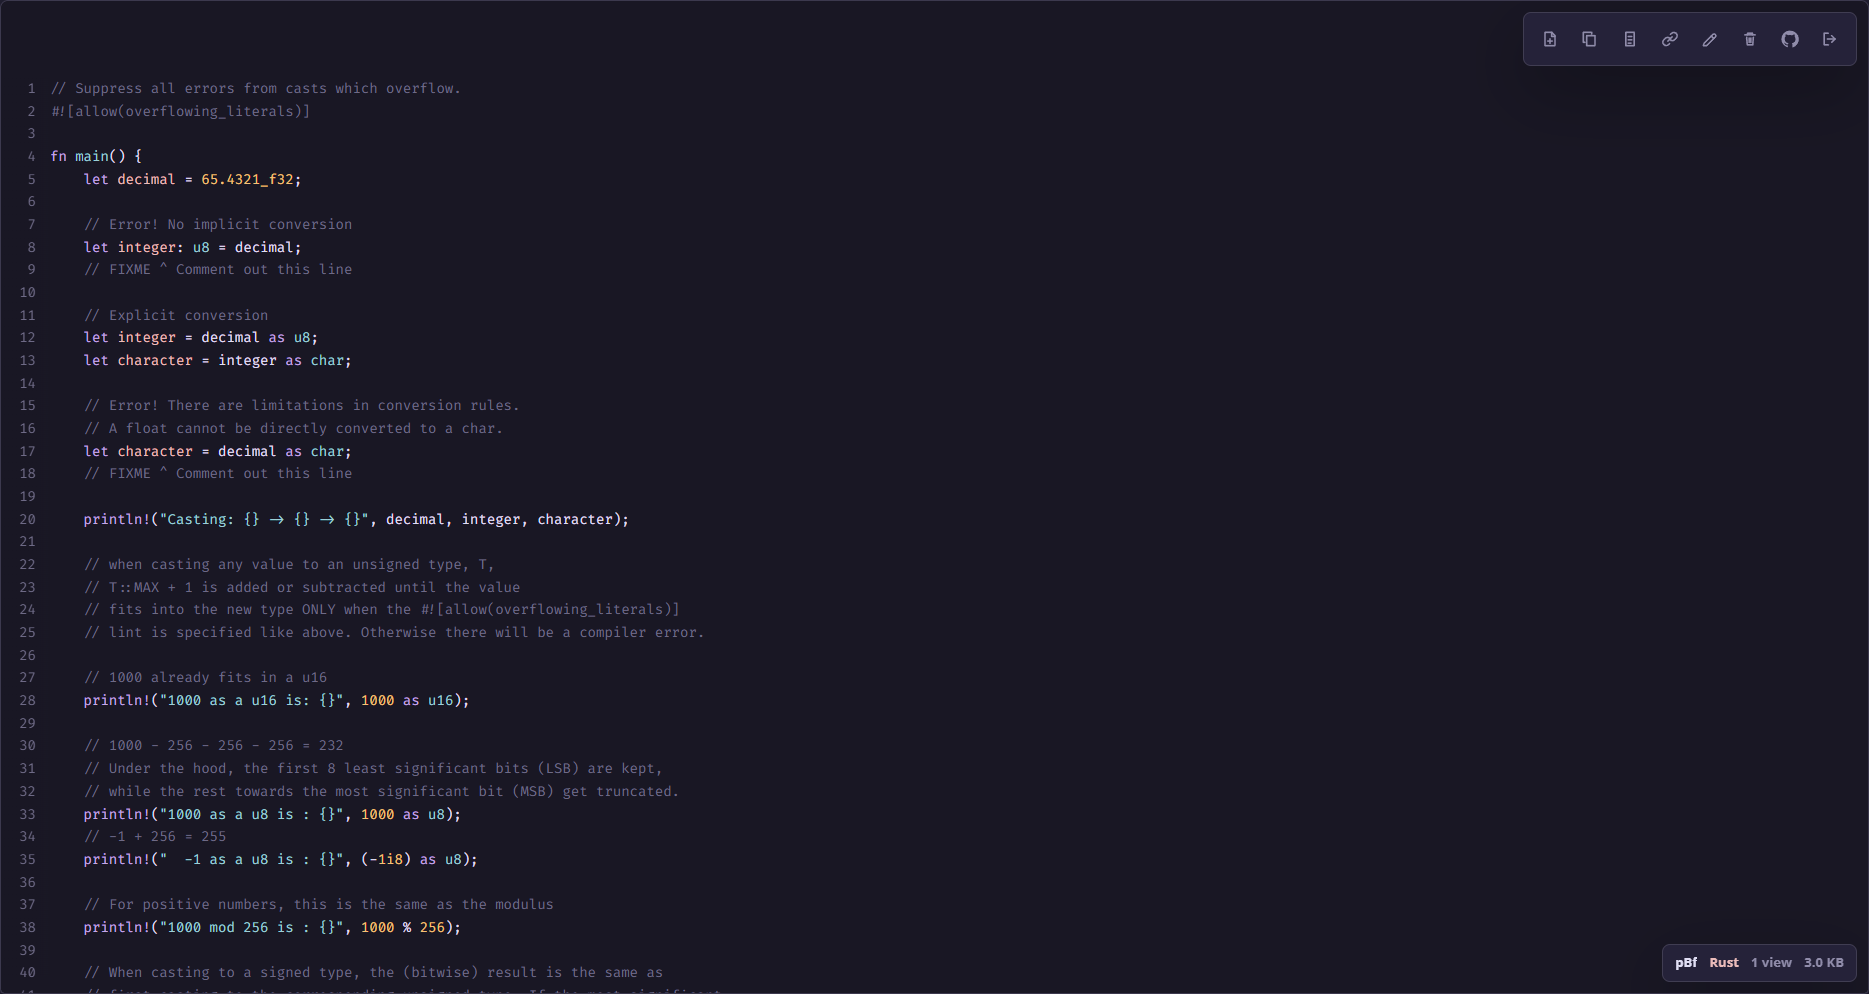
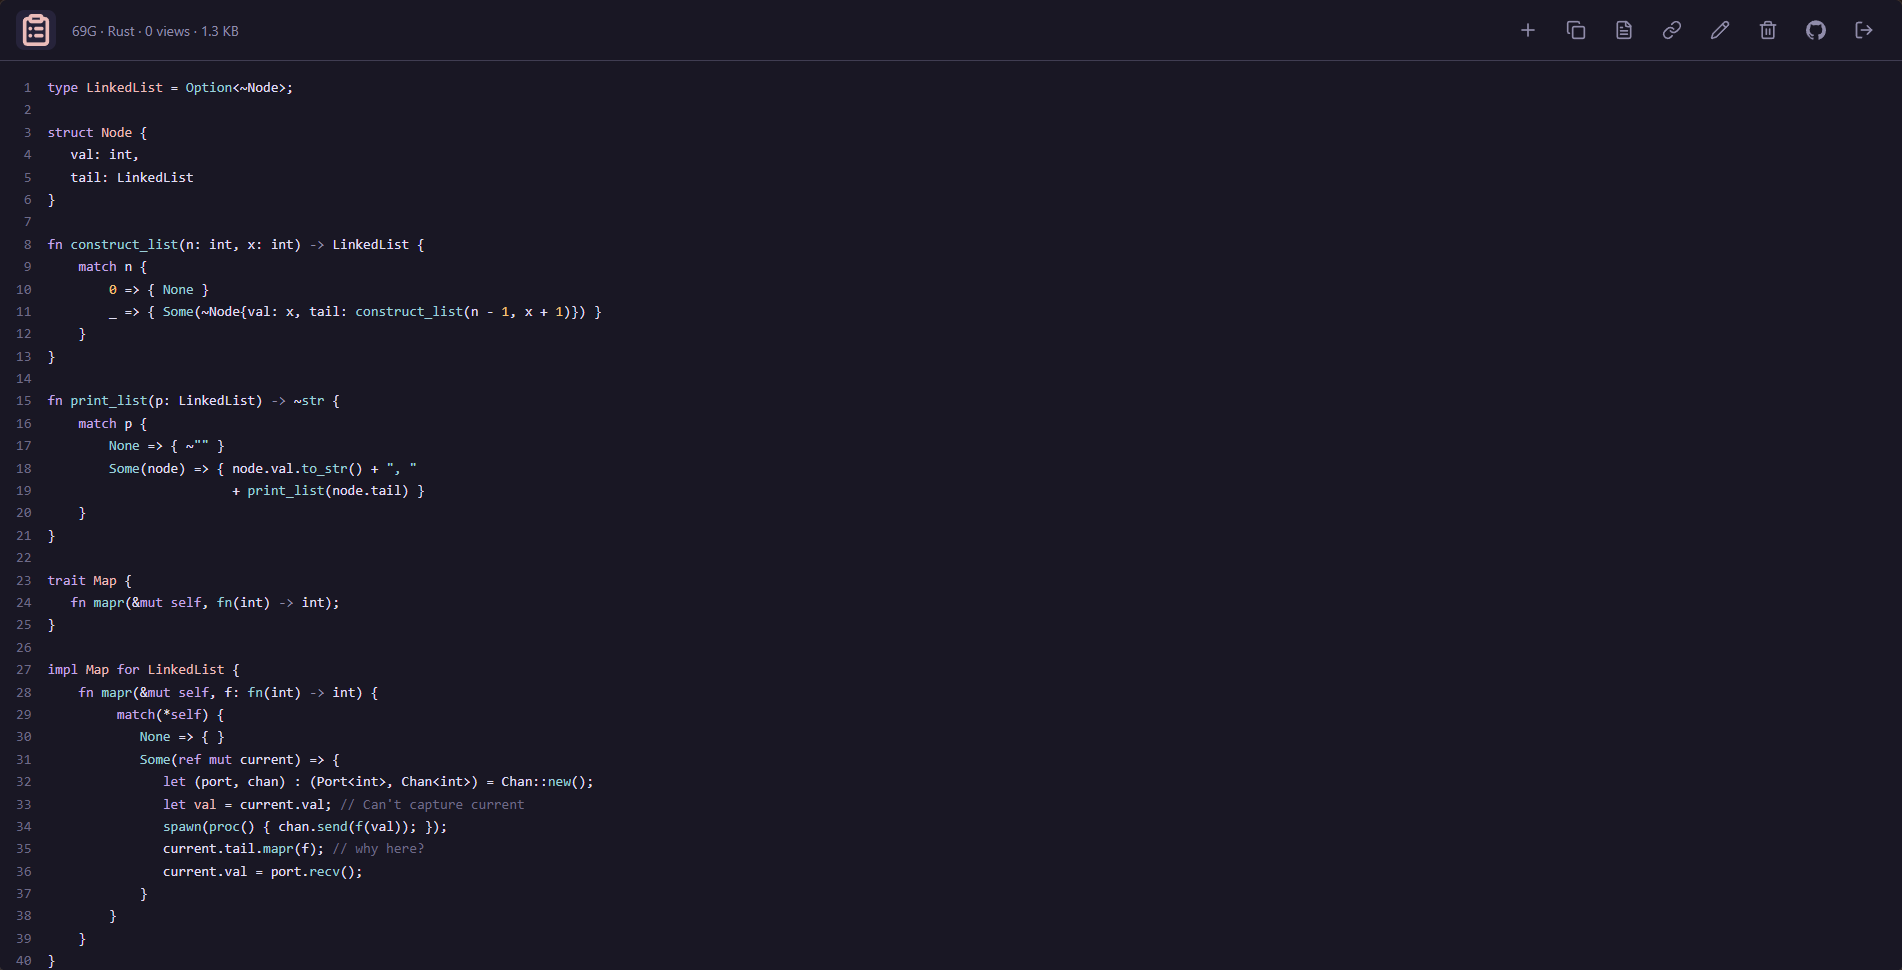
docs(readme): rewrite README and update screenshots

diff --git a/README.md b/README.md
@@ -1,32 +1,14 @@
-# <p style="text-align: center;">Seki</p>
+# Seki
 
-Private paste service on Node.js and Express
+A small private paste service. Creating, renaming and deleting pastes needs a token, reading them doesn't. Code gets syntax highlighting, Markdown is rendered, and every paste has a raw version. No database: an index in `index.json` and one text file per paste.
 
 ![Auth](./docs/screenshots/auth.png)
 ![Code](./docs/screenshots/code.png)
 ![Markdown](./docs/screenshots/markdown.png)
 
-## Purpose
+## Run
 
-Seki stores text pastes as plain text files and serves them through short links. It is built for private use by a small group: creating, deleting, and renaming pastes requires an API token, while viewing a paste or its raw version is public to anyone with the link
-
-## Features
-
-- Private writes and public reads: creating, deleting, and renaming require a token, viewing works by link
-- No database: metadata is stored in `data/index.json`, paste content in `data/pastes/`
-- Raw text view at `/:id/raw`
-- Automatic language detection and syntax highlighting with `highlight.js`
-- Markdown pastes render as HTML in the viewer and stay plain text in raw mode
-- Large pastes skip expensive highlighting and stay readable as plain text
-- Open Graph/Twitter metadata
-- Link renaming through API/UI
-- View counter
-- Configurable paste size limit
-- Atomic index writes through temp file + rename
-
-## Deployment
-
-Requires Node.js 18+
+Needs Node.js 18+
 
 ```bash
 git clone https://github.com/FrostyDeFreeze/seki
@@ -36,54 +18,65 @@ cp .env.example .env
 npm start
 ```
 
-Minimal `.env`:
+Settings in `.env`:
 
-```env
-PORT=7250
-BASE_URL=http://localhost:7250
-API_TOKEN=super-secret-token
+| Variable             | What it does                                                     |
+| -------------------- | ---------------------------------------------------------------- |
+| `PORT`               | Port to listen on, `7250` by default                             |
+| `BASE_URL`           | Public address used in paste links, e.g. `https://p.example.com` |
+| `API_TOKEN`          | The password for writing pastes. Make it long and random         |
+| `PASTE_CODE_LENGTH`  | Length of a new paste's id, from 1 to 16, `3` by default         |
+| `PASTE_MAX_SIZE`     | Largest paste in bytes, `1048576` (1 MB) by default              |
+| `HIGHLIGHT_MAX_SIZE` | Pastes above this many bytes are shown as plain text, `262144`   |
+| `DATA_DIR`           | Where pastes are stored, `./data` by default                     |
 
-PASTE_CODE_LENGTH=3
-PASTE_MAX_SIZE=1048576 # in bytes
-HIGHLIGHT_MAX_SIZE=262144 # in bytes
+A good token:
 
-DATA_DIR=./data
+```bash
+node -e "console.log(require('crypto').randomBytes(32).toString('hex'))"
 ```
 
-For production, run the service behind a reverse proxy and set `BASE_URL` to the public URL
-
-Data lives in `DATA_DIR`
-
-Back up both `index.json` and the `pastes/` directory
+In production put it behind a reverse proxy on its own domain or subdomain and set `BASE_URL` to that address. Back up `DATA_DIR` now and then, it holds every paste.
 
 ## API
 
-Protected endpoints use this header:
+Send the token in a header:
 
 ```http
 Authorization: Bearer <API_TOKEN>
 ```
 
-API errors use this format:
+`POST /api/pastes` with `{ "content": "console.log('hello')" }` creates a paste and returns it:
 
 ```json
 {
-	"success": false,
-	"error": {
-		"code": "bad_request",
-		"message": "Paste content is required"
-	}
+	"id": "aB3",
+	"url": "https://p.example.com/aB3",
+	"rawUrl": "https://p.example.com/aB3/raw",
+	"language": "JavaScript",
+	"languageKey": "javascript",
+	"size": 20,
+	"views": 0,
+	"createdAt": "2026-11-02T12:00:00.000Z",
+	"content": "console.log('hello')",
+	"html": "<span class=\"hljs-variable language_\">console</span>..."
 }
 ```
 
-| Method   | Endpoint          | Access  | Description                                                              | Body                                    | Response                                                                    |
-| -------- | ----------------- | ------- | ------------------------------------------------------------------------ | --------------------------------------- | --------------------------------------------------------------------------- |
-| `POST`   | `/auth/verify`    | Private | Checks that the token is valid                                           | -                                       | `{ "ok": true }`                                                            |
-| `POST`   | `/api/pastes`     | Private | Creates a paste                                                          | `{ "content": "console.log('hello')" }` | `201` with `{ "success": true, "data": Paste }`                             |
-| `GET`    | `/api/pastes/:id` | Public  | Returns a paste and increments its view counter                          | -                                       | `{ "success": true, "data": Paste }`                                        |
-| `PATCH`  | `/api/pastes/:id` | Private | Renames a paste id and changes its short link                            | `{ "id": "release-notes" }`             | `{ "success": true, "data": Paste }` with updated `id`, `url`, and `rawUrl` |
-| `DELETE` | `/api/pastes/:id` | Private | Deletes a paste from the index and removes its file from disk            | -                                       | `{ "success": true, "data": ... }` with the deleted paste metadata          |
-| `GET`    | `/:id`            | Public  | Opens the HTML paste viewer                                              | -                                       | HTML                                                                        |
-| `GET`    | `/:id/raw`        | Public  | Returns the original paste as plain text and increments its view counter | -                                       | `text/plain; charset=utf-8`                                                 |
+The language is guessed from the content. `html` is the highlighted code or rendered Markdown, `null` for plain text and pastes over `HIGHLIGHT_MAX_SIZE`.
 
-`Paste` includes the paste metadata, `content`, `renderMode`, and rendered fields when they are available. Markdown pastes return `renderMode: "markdown"` with `renderedHtml`. Code pastes return `renderMode: "code"` with `highlightedHtml` when the paste size does not exceed `HIGHLIGHT_MAX_SIZE`.
+`PATCH /api/pastes/:id` with `{ "id": "release-notes.md" }` renames a paste, the old link stops working. The name is lowercased and anything but letters, digits, dots, dashes and underscores becomes a dash. A known extension like `.js` or `.md` also sets the language.
+
+`DELETE /api/pastes/:id` removes a paste and its file.
+
+`POST /auth/verify` answers `200` if the token is right and `401` if not.
+
+Without a token:
+
+- `GET /:id` opens the paste in the browser or shows a 404 page
+- `GET /:id/raw` returns it as plain text
+- `GET /api/pastes/:id` returns it as JSON
+
+Opening a paste in any of these ways counts as a view.
+
+Errors come back as `{ "error": "..." }`.
